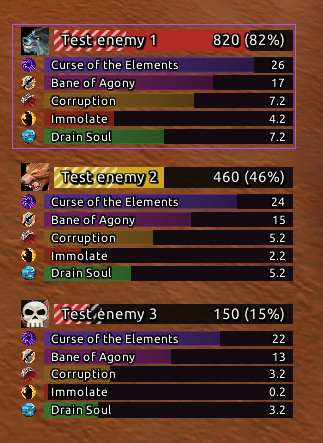
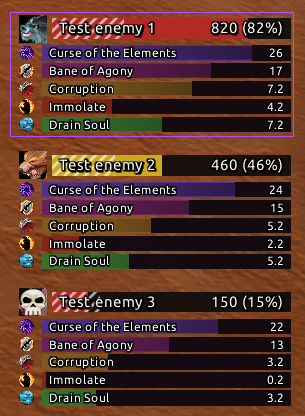
README: crop and center screenshots

diff --git a/README.md b/README.md
@@ -2,7 +2,7 @@
 
 A warlock toolkit for WoW Forever (Interface 16001). Felkit puts your shards, stones, demons, curses and DoT timers in one place, with proc alerts and raid assignments on top.
 
-<p align="center"><img src="docs/images/orb-kit.png" alt="The orb kit" width="300"></p>
+<p align="center"><img src="docs/images/orb-kit.png" alt="The orb kit" width="234"></p>
 
 ## Install
 
@@ -17,7 +17,7 @@ A ring of buttons around your soul shard counter. The orb in the middle shows ho
 - Buttons with several choices, like demons, open a flyout with the other spells.
 - The size, spacing, ring colors and centre crystal are all adjustable. Other layouts are available too: a row, a column, a circle, a grid or free placement.
 
-<p align="center"><img src="docs/images/orb-kit-flyout.png" alt="Demon flyout" width="360"></p>
+<p align="center"><img src="docs/images/orb-kit-flyout.png" alt="Demon flyout" width="296"></p>
 
 #### Reminders
 
@@ -50,15 +50,15 @@ Three styles:
 The health bars also show **Does It Die**: a marker for how much health your running DoTs will still take off, so you can tell whether a mob will die without another cast. Bar textures and fonts can be changed, including those from other addons that use LibSharedMedia.
 
 <p align="center">
-  <img src="docs/images/dot-bars.png" alt="Kit bars" width="320">
-  <img src="docs/images/dot-icons.png" alt="Warlock HUD icons under the health bars" width="370">
+  <img src="docs/images/dot-bars.png" alt="Kit bars" width="305">
+  <img src="docs/images/dot-icons.png" alt="Warlock HUD icons under the health bars" width="316">
 </p>
 
 ### Nightfall
 
 When Shadow Trance procs, violet bars flare up on both sides of your character and a louder sound plays, so you don't miss a free Shadow Bolt.
 
-<p align="center"><img src="docs/images/nightfall.png" alt="Nightfall alert" width="395"></p>
+<p align="center"><img src="docs/images/nightfall.png" alt="Nightfall alert" width="360"></p>
 
 ### Proc timers
 
